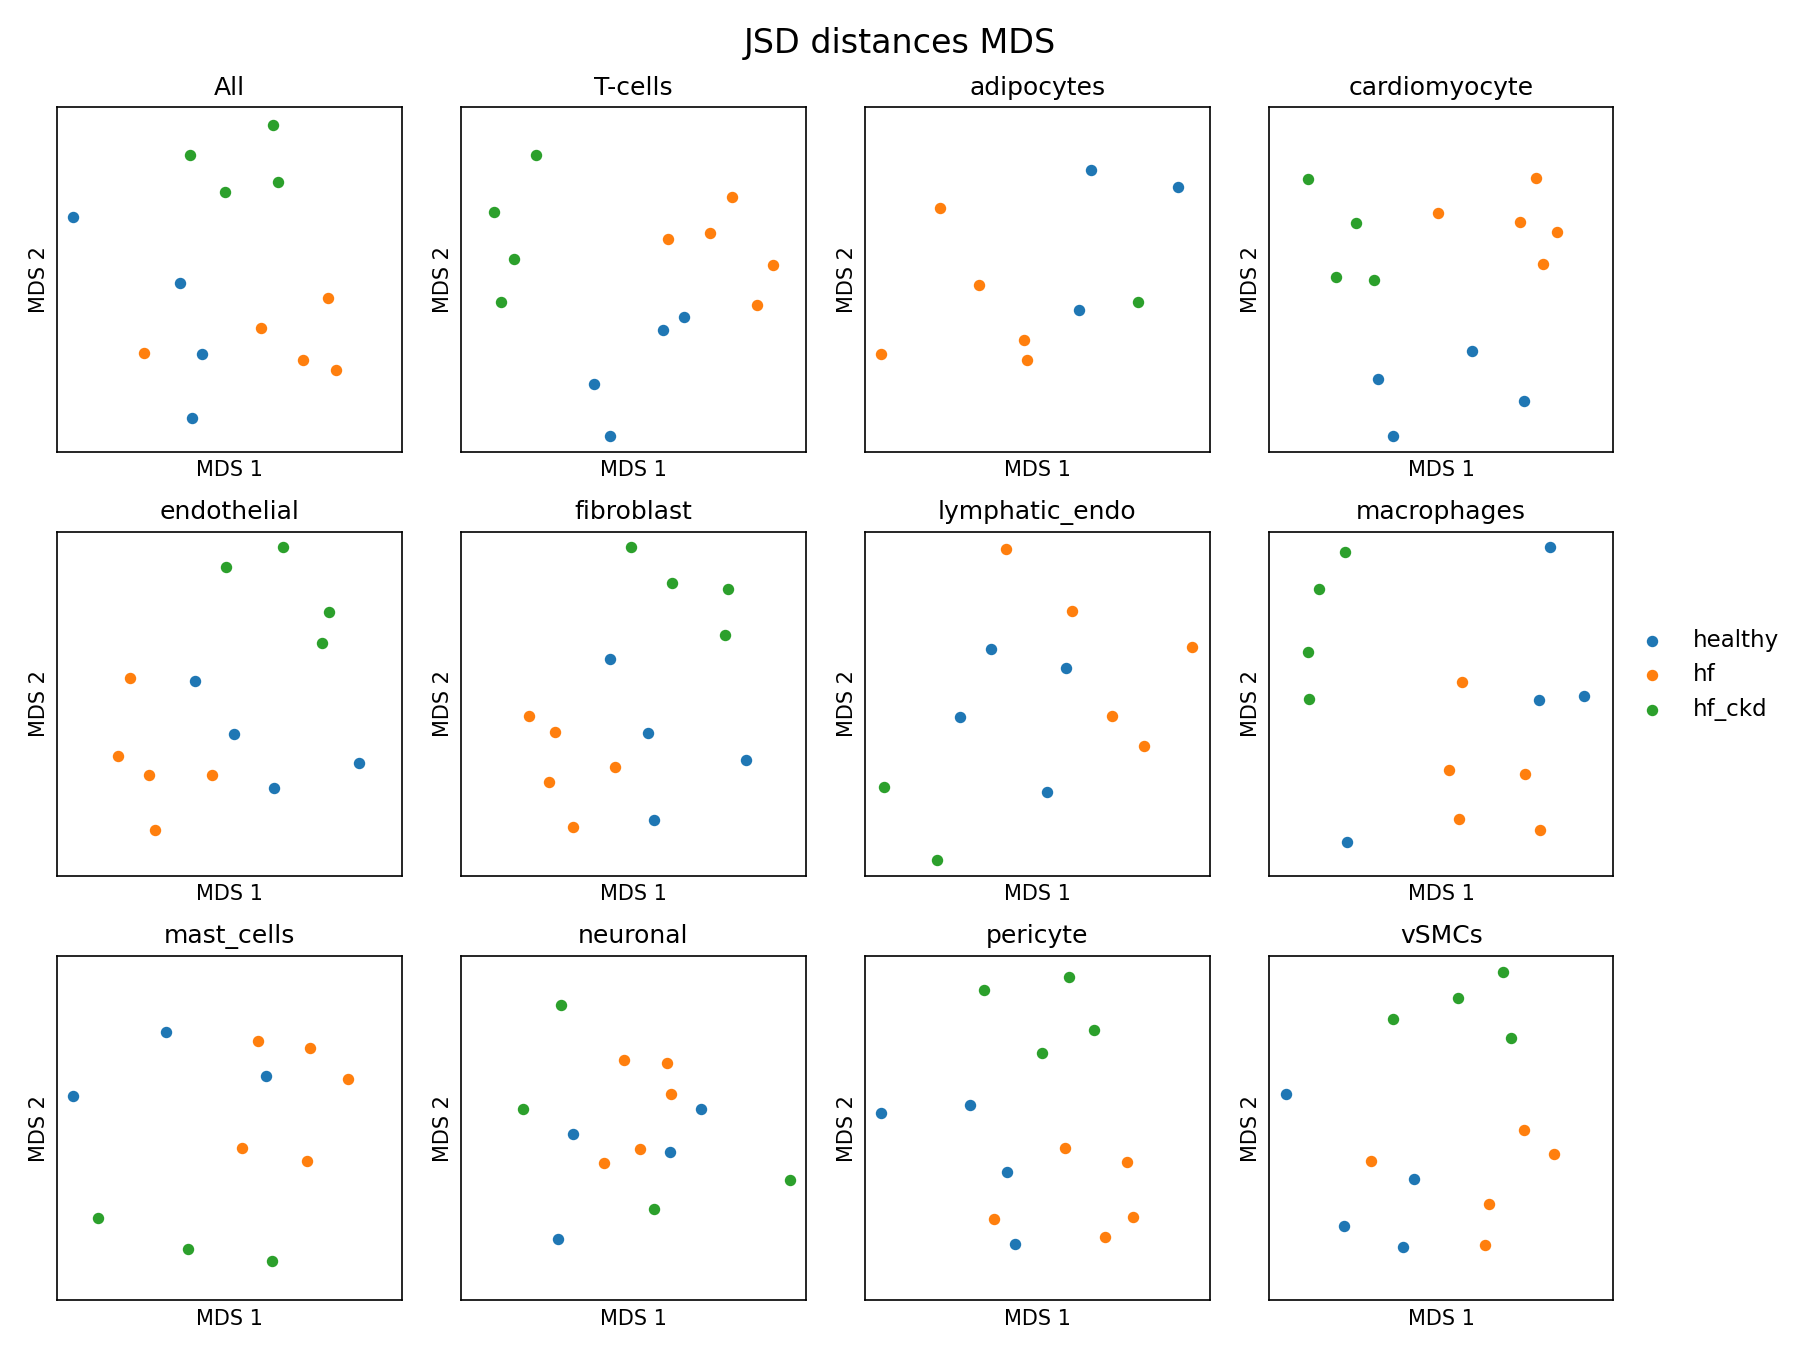
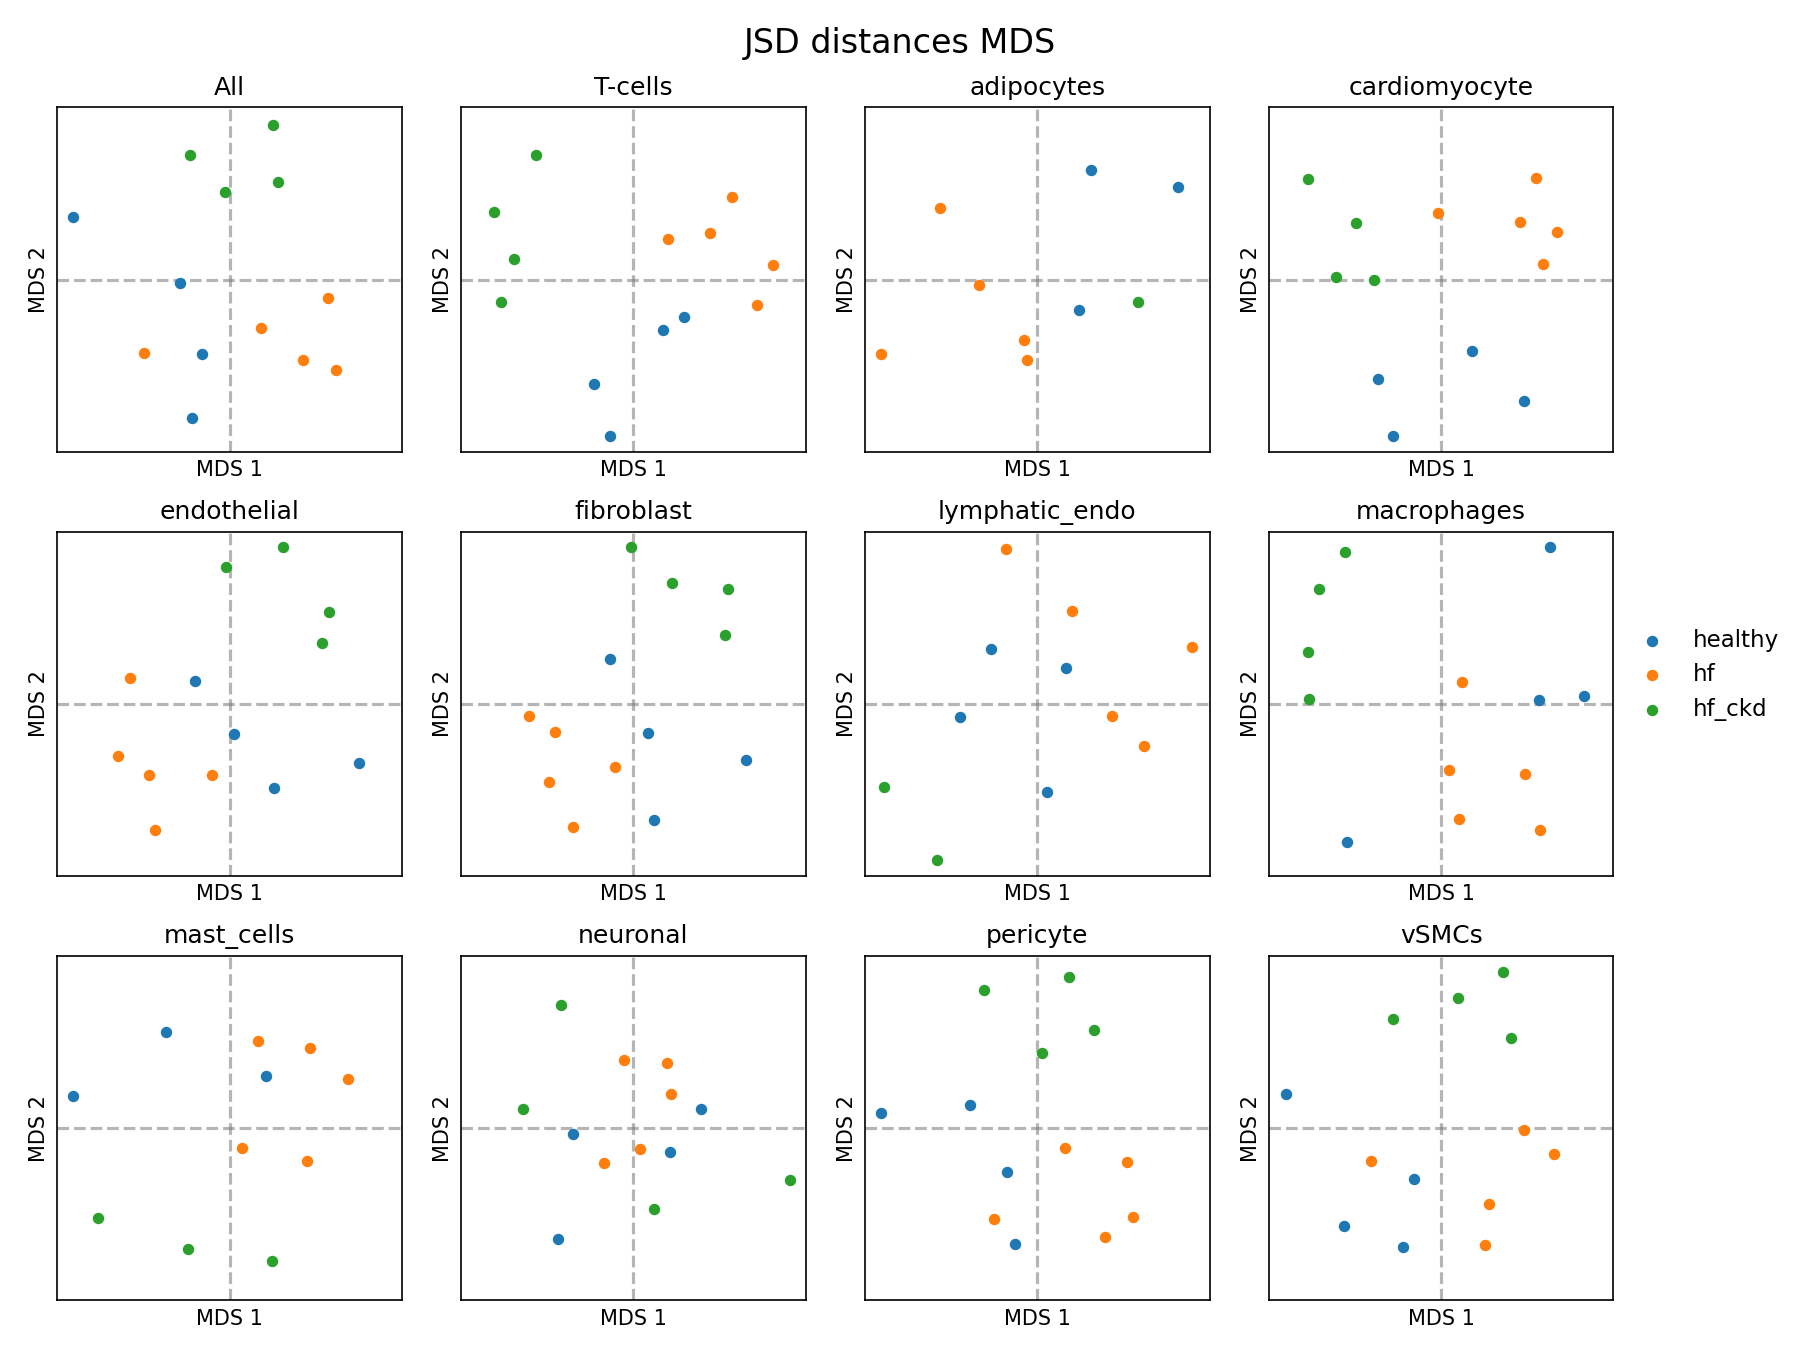
Added origin axis to JSD plots

diff --git a/scripts/run_psbulk_jsdd_plots.py b/scripts/run_psbulk_jsdd_plots.py
@@ -37,6 +37,8 @@ for i in range(len(cell_types)):
         ax.set_ylim(-max_num,max_num)
         ax.set_xlabel('MDS 1')
         ax.set_ylabel('MDS 2')
+        ax.axvline(x=0, alpha=0.25, color='grey', linestyle='--', zorder=0)
+        ax.axhline(y=0, alpha=0.25, color='grey', linestyle='--', zorder=0)
         
 fig.tight_layout()
 handles, labels = ax.get_legend_handles_labels()
